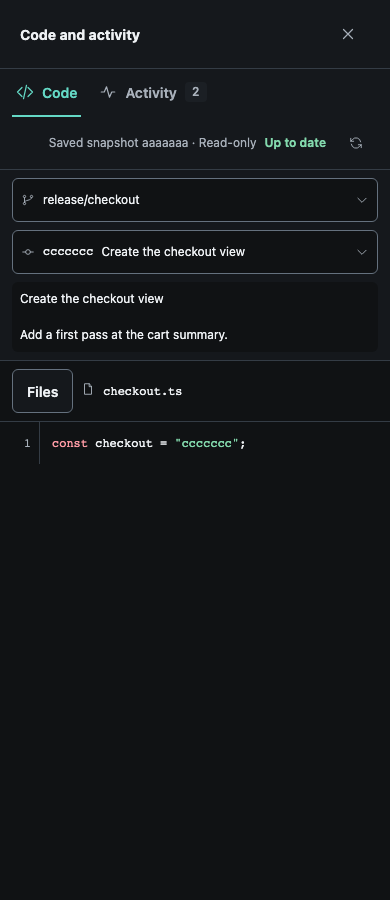
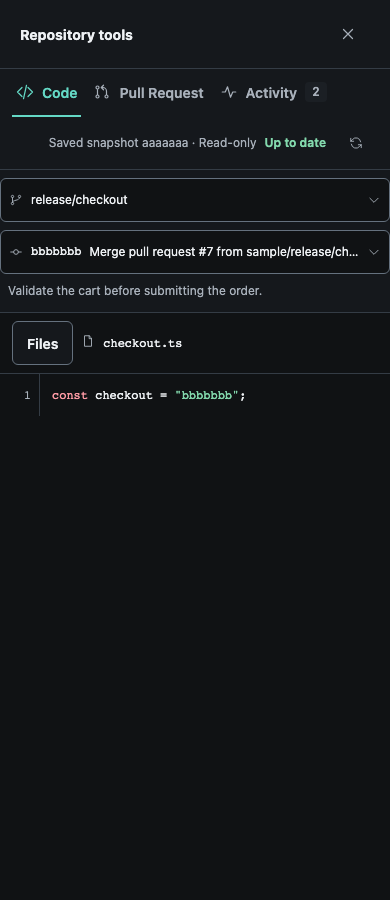
Align commit controls with the code browser

diff --git a/frontend/e2e/workspace.spec.ts b/frontend/e2e/workspace.spec.ts
@@ -1279,11 +1279,12 @@ for (const width of [1440, 390]) {
     const saved = 'a'.repeat(40);
     const latest = {
       sha: 'b'.repeat(40),
-      message: 'Polish the checkout flow\n\nValidate the cart before submitting the order.',
+      message:
+        'Merge pull request #7 from sample/release/checkout\n\nValidate the cart before submitting the order.',
     };
     const previous = {
       sha: 'c'.repeat(40),
-      message: 'Create the checkout view\n\nAdd a first pass at the cart summary.',
+      message: 'Create the checkout view',
     };
     const branch = 'release/checkout';
     const opened: string[] = [];
@@ -1344,6 +1345,14 @@ for (const width of [1440, 390]) {
     const branchTrigger = page.getByRole('button', { name: /^Choose branch/ });
     const commitTrigger = page.getByRole('button', { name: /^Choose commit/ });
     await expect(branchTrigger).toHaveText('main');
+    const files = page.getByRole('navigation', { name: 'Repository files' });
+    await expect(files).toBeVisible();
+    const [branchBounds, filesBounds] = await Promise.all([
+      branchTrigger.boundingBox(),
+      files.boundingBox(),
+    ]);
+    expect(branchBounds!.x).toBeCloseTo(filesBounds!.x);
+    expect(branchBounds!.width).toBeCloseTo(filesBounds!.width);
     await branchTrigger.click();
     const branches = page.getByRole('group', { name: 'Branches', exact: true });
     await branches.getByRole('button', { name: 'More branches' }).click();
@@ -1351,11 +1360,20 @@ for (const width of [1440, 390]) {
     await branches.getByRole('button', { name: branch }).click();
     await expect(branchTrigger).toHaveText(branch);
     await expect(commitTrigger).toContainText('bbbbbbb');
-    await expect(page.locator('.revision-message')).toHaveText(latest.message);
+    const description = page.locator('.revision-message');
+    await expect(commitTrigger).toContainText('Merge pull request #7 from sample/release/checkout');
+    await expect(description).toHaveText('Validate the cart before submitting the order.');
+    const [commitBounds, descriptionBounds] = await Promise.all([
+      commitTrigger.boundingBox(),
+      description.boundingBox(),
+    ]);
+    expect(descriptionBounds!.x).toBeCloseTo(commitBounds!.x);
+    expect(descriptionBounds!.width).toBeCloseTo(commitBounds!.width);
     await expect(page.getByText('Saved snapshot aaaaaaa · Read-only')).toBeVisible();
     await page.getByRole('button', { name: 'checkout.ts', exact: true }).click();
     const source = page.getByRole('region', { name: 'File contents' });
     await expect(source).toContainText('bbbbbbb');
+    await capture(page, testInfo, `revision-preview-${width}`);
 
     await commitTrigger.click();
     const commits = page.getByRole('group', { name: 'Commits', exact: true });
@@ -1366,10 +1384,10 @@ for (const width of [1440, 390]) {
     await expect(commitTrigger).toBeFocused();
     await commitTrigger.click();
     await commits.getByRole('button', { name: /ccccccc/ }).click();
-    await expect(page.locator('.revision-message')).toHaveText(previous.message);
+    await expect(commitTrigger).toContainText(previous.message);
+    await expect(description).toHaveCount(0);
     await page.getByRole('button', { name: 'checkout.ts', exact: true }).click();
     await expect(source).toContainText('ccccccc');
-    await capture(page, testInfo, `revision-preview-${width}`);
 
     if (width === 390) {
       await page.getByRole('button', { name: 'Close Repository tools' }).click();

diff --git a/frontend/src/app/globals.css b/frontend/src/app/globals.css
@@ -1789,6 +1789,7 @@ code {
   border-bottom-color: var(--accent);
 }
 .work-tab-panel {
+  --source-tree-width: clamp(138px, 28%, 218px);
   display: flex;
   flex: 1;
   flex-direction: column;
@@ -1802,9 +1803,13 @@ code {
   display: none;
 }
 .revision-browser {
+  --revision-gap: 8px;
+  --revision-end-gutter: 12px;
+  --revision-message-start: calc(var(--source-tree-width) + var(--revision-gap));
+  --revision-columns: var(--source-tree-width) minmax(0, 1fr);
   flex: 0 0 auto;
   min-width: 0;
-  padding: 8px 12px;
+  padding-block: 8px;
   border-bottom: 1px solid var(--border);
 }
 .revision-picker {
@@ -1812,8 +1817,8 @@ code {
 }
 .revision-controls {
   display: grid;
-  grid-template-columns: minmax(0, 1fr) minmax(0, 1.65fr);
-  gap: 8px;
+  grid-template-columns: var(--revision-columns);
+  gap: var(--revision-gap);
 }
 .revision-trigger,
 .revision-options button {
@@ -1830,6 +1835,13 @@ code {
 .revision-trigger {
   border: 1px solid var(--control-border);
   background: var(--canvas);
+}
+.revision-commit-trigger {
+  margin-inline-end: var(--revision-end-gutter);
+}
+.revision-trigger:focus-visible {
+  outline: 2px solid var(--accent);
+  outline-offset: -2px;
 }
 .revision-trigger:hover,
 .revision-trigger[aria-expanded='true'],
@@ -1883,15 +1895,19 @@ code {
   font-size: 12px;
   overflow-wrap: anywhere;
 }
+.revision-browser > .revision-notice {
+  margin-inline: 12px;
+}
 .revision-notice:not(.danger) {
   color: var(--muted);
 }
 .revision-message {
   max-height: min(128px, 20dvh);
   overflow: auto;
-  padding: 8px;
-  border-radius: var(--radius);
-  background: var(--canvas);
+  margin-block: 4px 0;
+  margin-inline: var(--revision-message-start) var(--revision-end-gutter);
+  padding: 4px 8px;
+  color: var(--muted);
   white-space: pre-wrap;
 }
 .revision-message:focus-visible {
@@ -1904,17 +1920,12 @@ code {
     min-height: 44px;
   }
 }
-@media (max-width: 440px) {
-  .revision-controls {
-    grid-template-columns: minmax(0, 1fr);
-  }
-}
 .source-browser {
   flex: 1;
   min-height: 0;
   min-width: 0;
   display: grid;
-  grid-template-columns: clamp(138px, 28%, 218px) minmax(0, 1fr);
+  grid-template-columns: var(--source-tree-width) minmax(0, 1fr);
 }
 .source-tree {
   min-height: 0;
@@ -2136,6 +2147,11 @@ code {
     display: flex;
     flex-direction: column;
   }
+  .revision-browser {
+    --revision-columns: minmax(0, 1fr);
+    --revision-message-start: 0px;
+    --revision-end-gutter: 0px;
+  }
   .source-browser {
     grid-template-columns: minmax(0, 1fr);
   }
@@ -2157,8 +2173,10 @@ code {
 }
 
 @container work-pane (max-width: 380px) {
-  .revision-controls {
-    grid-template-columns: minmax(0, 1fr);
+  .revision-browser {
+    --revision-columns: minmax(0, 1fr);
+    --revision-message-start: 0px;
+    --revision-end-gutter: 0px;
   }
   .source-browser {
     grid-template-columns: minmax(0, 1fr);

diff --git a/frontend/src/app/repository-revisions.tsx b/frontend/src/app/repository-revisions.tsx
@@ -18,8 +18,7 @@ type CommitOption = GitHubCommit & { page: number };
 type CommitOptions = { branch: string; commits: CommitOption[]; nextPage: number | null };
 
 function subject(message: string) {
-  const line = message.split('\n', 1)[0]?.trim() || 'No commit message';
-  return line.length > 120 ? `${line.slice(0, 120)}…` : line;
+  return message.split('\n', 1)[0]?.trim() || 'No commit message';
 }
 
 export function RepositoryRevisions({
@@ -48,6 +47,10 @@ export function RepositoryRevisions({
   const id = useId();
   const branch = revision?.branch ?? branches?.default_branch;
   const sha = revision?.sha ?? savedSha;
+  const message = revision?.message ?? '';
+  const commitSubject = revision ? subject(message) : 'Saved snapshot';
+  const bodyStart = message.indexOf('\n');
+  const commitBody = bodyStart < 0 ? '' : message.slice(bodyStart + 1).trim();
 
   useEffect(() => {
     const controller = new AbortController();
@@ -226,8 +229,8 @@ export function RepositoryRevisions({
             className="revision-trigger revision-commit-trigger"
             type="button"
             ref={commitTrigger}
-            title={sha}
-            aria-label={`Choose commit, ${sha.slice(0, 7)}, ${revision ? subject(revision.message) : 'saved snapshot'}`}
+            title={revision ? `${sha}\n${commitSubject}` : sha}
+            aria-label={`Choose commit, ${sha.slice(0, 7)}, ${commitSubject}`}
             aria-expanded={open === 'commit'}
             aria-controls={open === 'commit' ? id : undefined}
             aria-disabled={Boolean(pending)}
@@ -237,7 +240,7 @@ export function RepositoryRevisions({
           >
             <Icon name="commit" />
             <code>{sha.slice(0, 7)}</code>
-            <bdi>{revision ? subject(revision.message) : 'Saved snapshot'}</bdi>
+            <bdi>{commitSubject}</bdi>
             <Icon name="chevron" className="revision-chevron" />
           </button>
         </div>
@@ -341,9 +344,9 @@ export function RepositoryRevisions({
         ) : null}
       </div>
       {!open ? notice : null}
-      {revision ? (
+      {commitBody ? (
         <p className="revision-message" tabIndex={0}>
-          {revision.message || 'No commit message'}
+          {commitBody}
         </p>
       ) : null}
     </div>

diff --git a/README.md b/README.md
@@ -200,7 +200,7 @@ Each repository has a three-dot actions menu. **Remove** opens a confirmation fo
 
 Selecting an imported snapshot checks the commit on GitHub's default branch. Look in the upper-right corner of **Code** for the saved revision and remote status. **Up to date** means the saved revision matches. If it differs, **Behind GitHub** and **Sync** appear. Sync checks again before downloading, updates the existing repository entry, and keeps its saved sessions. If an earlier sync created a duplicate, sync the older entry to consolidate it and preserve sessions from both entries. Use the refresh icon to check again while staying on the same snapshot.
 
-For an imported GitHub repository, use the branch picker in **Code** to preview the tip of another branch. Open the commit picker for that branch to browse older pages and select a revision. The selected commit's full message appears above the file browser. Choose **Saved snapshot** in the commit picker to return to the source used by the workspace and its sessions. A history selection is a read-only preview. GitHub API rate limits and the existing source-archive limits apply.
+For an imported GitHub repository, use the branch picker in **Code** to preview the tip of another branch. Open the commit picker for that branch to browse older pages and select a revision. The commit picker shows the subject, and any message body appears directly beneath it. Choose **Saved snapshot** in the commit picker to return to the source used by the workspace and its sessions. A history selection is a read-only preview. GitHub API rate limits and the existing source-archive limits apply.
 
 ### Browse pull requests
 

diff --git a/DESIGN.md b/DESIGN.md
@@ -169,4 +169,4 @@ The right workspace pane starts at 40% of the desktop viewport and can be resize
 
 The selected GitHub snapshot shows its remote status alongside its revision. **Up to date** uses the green state color. **Behind GitHub** uses amber and reveals **Sync**. A separate check action refreshes the status. Sync updates the commit in the existing row and preserves the selected session.
 
-In **Code**, the GitHub branch and commit pickers sit above the file browser. The branch picker shows the branch name. The commit picker shows a short SHA and the subject, with the full message below the controls after selection. The pickers stack in narrow panes. History browsing keeps the saved snapshot available through the commit picker and labels it separately from the active preview.
+In **Code**, the GitHub branch and commit pickers sit above the file browser. The branch picker shows the branch name and shares the Files column width. The commit picker shows a short SHA and the subject, with the message body below it when present. The pickers stack in narrow panes. History browsing keeps the saved snapshot available through the commit picker and labels it separately from the active preview.
